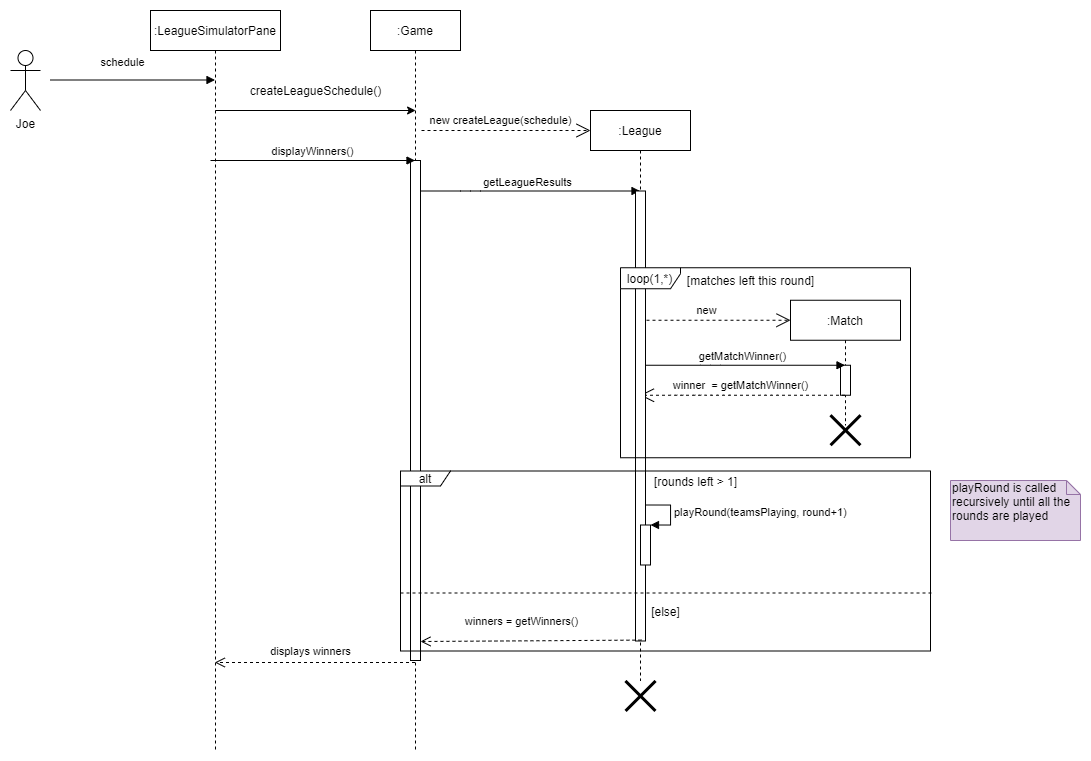
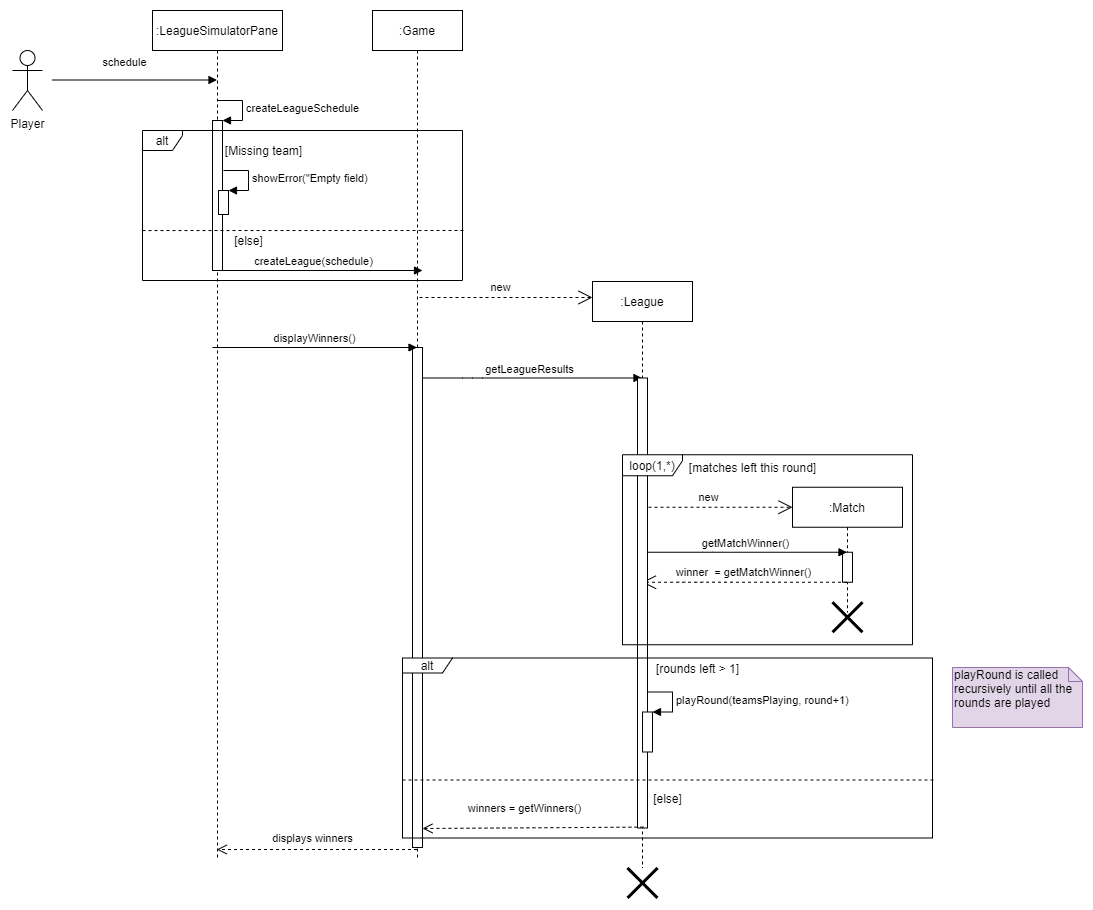
Added description for the sequence diagrams

diff --git a/docs/assignment3.md b/docs/assignment3.md
@@ -257,22 +257,32 @@ The state diagram above represents the different states a league can be in. When
 The state diagram above represents the state a Game can be in. It has three different properties that can be changes and accessed with different methods.   
 
 ## Sequence diagrams									
-Author(s): `Teona Moga`
+Author(s): `Teona Moga`, `Noe Rousset`
 
 `Sequence diagram showing League creation and execution`
 ![](imgs/teamcreation.png)
+
+This sequence diagram represent how the creation of the player's team occur and the interactions between the game and team editor.
+The player represent by the actor element provides a list of players for his team in the team editor. Once the "Save Team" button is pressed, createTeam() is called.
+
+The team editor checks if the player selection is correct, as shown in the Alt fragment. If there are not enough players to create a team, showError() is called and displays an error message showing which fields are empty.
+If the same player appears multiple times in the selection, showError() is called and an error message is displayed. If an error occurs, createTeam() exits and the player must press "Save Team" to start again.
+
+If there are no errors, addTeam() is called, and :Game creates a new team object and adds it to the team pool.
 
 `Sequence diagram showing League creation and execution`
 ![](imgs/Sequence2League.png)
 
 This sequence diagrams shows the interactions between the player and the game to execute the league from a player provided schedule. This sequence happens when all teams have been made and the player starts the league simulation. 
-The player represented by the actor element provides a schedule with all the matches that will play in the first round to the game. 
+The player represented by the actor element provides a schedule with includes the number of matches and which teams will play in the first round.
 
-From this schedule a new League object is created. The league then starts with the playRound function. Here all the scheduled matches are played one by one in the Loop fragment. A match object is created and returns the winner of the match before being destroyed. The winning teams are added to the pool of teams playing next round. 
-
+Once the Start button is pressed, the league simulator checks for errors as shown in the alt fragment. If there are matches missing teams, showError is called and an error message is displayed. This causes the league execution to stop and the player has to hit the start button again.
+ 
+If there are no errors, the League object is created and the execution of the league begins.
+The league starts with the playRound function. Here all the scheduled matches are played one by one in the Loop fragment. A match object is created and returns the winner of the match before being destroyed. The winning teams are added to the pool of teams playing next round. 
 
 Once a round is over, the Alt fragment checks if there are more than one remaining team. If yes playRound is called recursively, as shown by the self-call element. The exit condition is one team remaining, and when it is met the results are sent to the game and the league object is destroyed.
-
+The full results are then displayed by LeagueSimulatorPane.
 
 ## Implementation									
 Author(s): `name of the team member(s) responsible for this section`
